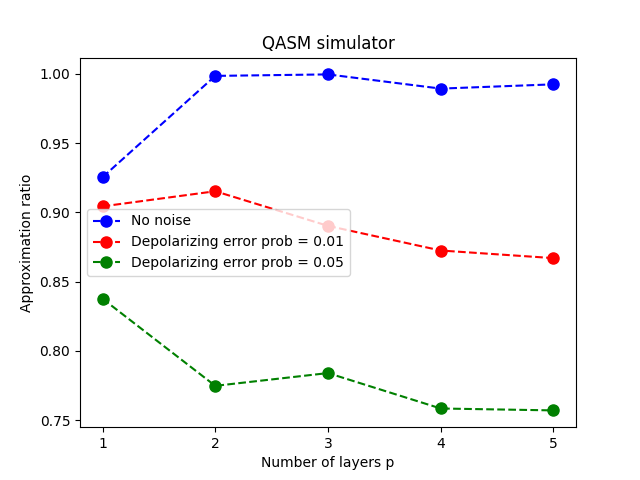
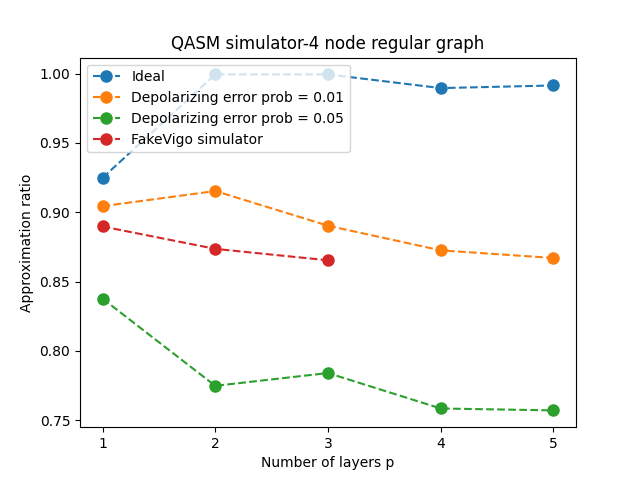
Started implementing layer by layer optimization.

diff --git a/plots.py b/plots.py
@@ -2,31 +2,35 @@ import matplotlib.pyplot as plt
 import numpy as np
 
 # QASM simulator with no noise // 4 node 3 regular graph:
-approx_ratio = [0.925425,0.99855,0.999625,0.989375,0.99245] # No noise
+approx_ratio = [0.924825, 0.9994, 0.999375, 0.989525, 0.991425] # No noise
+# [2.01177997 2.33217192 0.83523549 5.95600807 2.72784627] [1.65157151 6.27857961 1.05144207 3.10821409 1.4194117 ]
 approx_ratio_noisy2 = [0.904375, 0.9153, 0.8903, 0.872525, 0.867025] # Depolarizing error 0.01
 approx_ratio_noisy = [0.837725, 0.77485, 0.784075, 0.7585, 0.757125] # Depolarizing error 0.05
+approx_ratio_fakevigo = [0.889739990234375, 0.87359619140625, 0.8653564453125]
 
-plt.plot(range(1,len(approx_ratio)+1), approx_ratio, 'bo--', markersize=8, label='No noise')
-plt.plot(range(1,len(approx_ratio_noisy2)+1), approx_ratio_noisy2, 'ro--', markersize=8, label='Depolarizing error prob = 0.01')
-plt.plot(range(1,len(approx_ratio_noisy)+1), approx_ratio_noisy, 'go--', markersize=8, label='Depolarizing error prob = 0.05')
+plt.plot(range(1,len(approx_ratio)+1), approx_ratio, 'o--', markersize=8, label='Ideal')
+plt.plot(range(1,len(approx_ratio_noisy2)+1), approx_ratio_noisy2, 'o--', markersize=8, label='Depolarizing error prob = 0.01')
+plt.plot(range(1,len(approx_ratio_noisy)+1), approx_ratio_noisy, 'o--', markersize=8, label='Depolarizing error prob = 0.05')
+plt.plot(range(1,len(approx_ratio_fakevigo)+1), approx_ratio_fakevigo, 'o--', markersize=8, label='FakeVigo simulator')
 
 plt.xticks(range(1,len(approx_ratio)+1))
 plt.xlabel('Number of layers p')
 plt.ylabel('Approximation ratio')
 plt.legend()
-plt.title('QASM simulator-4 node regular graph')
-#plt.savefig('4 node regular graph with qasm')
-#plt.show()
+plt.title('4 node regular graph')
+plt.savefig('4 node regular graph with qasm')
+plt.show()
 
-# QASM simulator with no noise // 4 node 3 regular graph:
-approx_ratio = [0.7585714285714286, 0.7602714285714286, 0.7851, 0.7834714285714286, 0.7804142857142857] # No noise
+# QASM simulator with no noise // 6nprism:
+approx_ratio = [0.7581571428571429, 0.7612285714285714, 0.7824428571428571, 0.7796000000000001, 0.7810142857142858]
+# [5.84361619 3.19135334 3.7000231  0.01877684 1.6515655 ] [2.06240957 0.06109409 0.10826346 4.55452413 4.47434488]
 approx_ratio_noisy2 = [0.7438857142857144, 0.7251000000000001, 0.7312428571428571, 0.7198142857142857, 0.7168714285714285] # Depolarizing error 0.01
 approx_ratio_noisy = [0.6986857142857142, 0.6507857142857143, 0.6570428571428572, 0.6494714285714285, 0.6488571428571428] # Depolarizing error 0.05
 
 plt.close()
-plt.plot(range(1,len(approx_ratio)+1), approx_ratio, 'bo--', markersize=8, label='No noise')
-plt.plot(range(1,len(approx_ratio_noisy2)+1), approx_ratio_noisy2, 'ro--', markersize=8, label='Depolarizing error prob = 0.01')
-plt.plot(range(1,len(approx_ratio_noisy)+1), approx_ratio_noisy, 'go--', markersize=8, label='Depolarizing error prob = 0.05')
+plt.plot(range(1,len(approx_ratio)+1), approx_ratio, 'o--', markersize=8, label='Ideal')
+plt.plot(range(1,len(approx_ratio_noisy2)+1), approx_ratio_noisy2, 'o--', markersize=8, label='Depolarizing error prob = 0.01')
+plt.plot(range(1,len(approx_ratio_noisy)+1), approx_ratio_noisy, 'o--', markersize=8, label='Depolarizing error prob = 0.05')
 
 plt.xticks(range(1,len(approx_ratio)+1))
 plt.xlabel('Number of layers p')
@@ -34,4 +38,38 @@ plt.ylabel('Approximation ratio')
 plt.legend()
 plt.title('QASM simulator-6n prism graph')
 plt.savefig('6-n prism graph with qasm')
+plt.show()
+
+# QASM simulator with no noise // Erdos-Renyo graph:
+approx_ratio = [0.7455928571428572, 0.6670857142857143, 0.7555071428571428, 0.755742857142857, 0.7561285714285715] # No noise
+# [0.03821226 3.21017583 0.21517038 0.11873241 0.79274375] [2.89780661 3.14217104 4.21520146 0.11372762 2.89750008]
+approx_ratio_noisy2 = [0.7270357142857142, 0.6614428571428571, 0.7125785714285715, 0.6606928571428572, 0.6618857142857143] # Depolarizing error 0.01
+#[3.23163798 4.61422627 2.65065358 0.13752952 0.74402197] [0.93750292 3.05073663 5.16491242 0.75495762 4.70287073]
+approx_ratio_noisy = [0.6845214285714285, 0.6456428571428571, 0.6503642857142857, 0.6476357142857143, 0.64885] # Depolarizing error 0.05
+# [3.6446848  0.71288267 2.58491384 5.37518451 4.5581894 ] [4.6198482  5.05260994 4.50554244 3.30805374 2.19893019]
+plt.close()
+
+plt.plot(range(1,len(approx_ratio)+1), approx_ratio, 'o--', markersize=8, label='Ideal')
+plt.plot(range(1,len(approx_ratio_noisy2)+1), approx_ratio_noisy2, 'o--', markersize=8, label='Depolarizing error prob = 0.01')
+plt.plot(range(1,len(approx_ratio_noisy)+1), approx_ratio_noisy, 'o--', markersize=8, label='Depolarizing error prob = 0.05')
+
+plt.xticks(range(1,len(approx_ratio)+1))
+plt.xlabel('Number of layers p')
+plt.ylabel('Approximation ratio')
+plt.legend()
+plt.title('QASM simulator-Erdos Renyi graph')
+plt.savefig('Erdos graph with qasm')
+plt.show()
+
+
+# Number of calls to the circuit when running it in fakevigo 
+calls = [20,72,275,715]
+plt.close
+plt.plot(range(1,len(calls)+1), calls, 'o--', markersize=8)
+plt.xticks(range(1,len(approx_ratio)+1))
+plt.xlabel('Number of layers p')
+plt.ylabel('Calls')
+plt.legend()
+plt.title('Calls to the quantum circuit in FakeVigo')
+plt.savefig('Calls')
 plt.show()

diff --git a/layer_by_layer_qasm_functions.py b/layer_by_layer_qasm_functions.py
@@ -1,8 +1,10 @@
 from qiskit import execute, QuantumCircuit
 
-def circuit_ansatz(G, gamma, beta, p, prev_gamma, prev_beta): #gamma and beta are p-arrays or lists
+def circuit_ansatz(G, gamma, beta, prev_gamma, prev_beta, p): #gamma and beta are p-arrays or lists
     n = len(G.nodes())
     E = G.edges()
+    gamma = prev_gamma.append(gamma)
+    beta = prev_beta.append(beta)
 
     QAOA = QuantumCircuit(n, n)
     for i in range(p):
@@ -12,21 +14,21 @@ def circuit_ansatz(G, gamma, beta, p, prev_gamma, prev_beta): #gamma and beta ar
         for edge in E:
             k = edge[0]
             l = edge[1]
-            QAOA.cu1(-2*gamma[i], k, l) #Controlled-Z gate with a -2*gamma phase
-            QAOA.u1(gamma[i], k) #Rotation of gamma around the z axis
-            QAOA.u1(gamma[i], l) 
+            QAOA.cu1(-2*gamma[i], k, l) 
+            QAOA.u1(gamma[i], k) 
+            QAOA.u1(gamma[i], l)
 
         QAOA.barrier()
-        QAOA.rx(2*beta[i], range(n)) #X rotation
+        QAOA.rx(2*beta[i], range(n)) 
 
     QAOA.barrier()
     QAOA.measure(range(n),range(n)) 
 
     return QAOA
 
-def execute_circuit(G, gamma, beta, backend, shots, p, noise_model): #returns an instance of the Results class
+def execute_circuit(G, gamma, beta, prev_gamma, prev_beta, backend, shots, p, noise_model): #returns an instance of the Results class
 
-    QAOA = circuit_ansatz(G, gamma, beta, p=p) #creates the circuit
+    QAOA = circuit_ansatz(G, gamma, beta, prev_gamma=prev_gamma, prev_beta=prev_beta, p=p)
 
     if noise_model== None:
         job = execute(QAOA, backend=backend, shots=shots)
@@ -68,10 +70,10 @@ def get_solution(counts, G): #takes as the solution the state with the highest c
             solution_cost = cost_x
     return solution, solution_cost
 
-def expect_value_function(parameters, backend, G, shots, p ,noise_model):
-    gamma = parameters[:p]
-    beta = parameters[p:]
-    counts = execute_circuit(G, gamma, beta, backend, shots, p=p, noise_model = noise_model)
+def expect_value_function(parameters,prev_gamma,prev_beta, backend, G, shots, p, noise_model):
+    gamma = parameters[0]
+    beta = parameters[1]
+    counts = execute_circuit(G, gamma, beta, prev_gamma, prev_beta, backend, shots, p=p, noise_model = noise_model)
     avr_cost = get_expectval(counts, shots, G)
     return -avr_cost
 

diff --git a/layer_by_layer_qasm_simulation.py b/layer_by_layer_qasm_simulation.py
@@ -1,6 +1,6 @@
 # Private libraries
 import qaoa_graphs as graphs
-from qasm_functions import *
+from layer_by_layer_qasm_functions import *
 
 # General
 import networkx as nx
@@ -32,21 +32,21 @@ G = graphs.fournodes_3reg_graph()
 backend = QasmSimulator.from_backend(FakeVigo())
 shots = 8192
 
-number_of_calls = 0
-
 # Choose the number of rounds
 p = 1
 
 # In case we don't want a noise model:
 noise_model = None
 
+prev_gamma = []]
+prev_beta = []
 cost_list = []
 approx_ratio_list = []
 p_max = 5
 for p in range(1,p_max + 1):
 
     # Initial values
-    x0 = np.random.randn(2,p)
+    x0 = np.random.randn(2)
 
     # Parameters bounds (for SLQP and diff-evolution)
     bound = (0, 2*np.pi)
@@ -61,7 +61,7 @@ for p in range(1,p_max + 1):
     # max_expect_value = minimize(expect_value_function, x0=np.random.randn(2),args=(backend,G,shots,p,None), bounds = bounds, options={'disp': True}, method = 'SLQP')
 
     # Differential evolution optimizer:
-    max_expect_value = differential_evolution(expect_value_function,args=(backend,G,shots,p,noise_model), bounds=bounds, disp = True)
+    max_expect_value = differential_evolution(expect_value_function,args=(prev_gamma,prev_beta,backend,G,shots,p,noise_model), bounds=bounds, disp = True)
 
     optimal_gamma, optimal_beta = max_expect_value['x'][:p], max_expect_value['x'][p:]
     counts = execute_circuit(G, optimal_gamma, optimal_beta, backend, shots, p, noise_model)
@@ -71,6 +71,8 @@ for p in range(1,p_max + 1):
                                           # the solution (i.e. measures the state solution at least once). For enough shots (e.g. 10000) this is almost garanteed
     cost_list.append(avr_cost)
     approx_ratio_list.append(approx_ratio)
+    prev_gamma.append(optimal_gamma)
+    prev_beta.append(optimal_beta)
 
     print(f"Number of layers: {p}")
     print(f"Average cost list: {cost_list}")
@@ -83,7 +85,6 @@ for p in range(1,p_max + 1):
     #plot_histogram(counts,figsize = (8,6),bar_labels = False)
     #plt.show()
 
-    
 
 #np.save('saved_cost_list', cost_list)
 plt.plot(range(1,p_max), cost_list)

diff --git a/sandbox.py b/sandbox.py
@@ -1,5 +1,6 @@
 import qaoa_graphs as graphs
 from qasm_functions import *
+from qiskit.test.mock import FakeVigo
 
 # General
 import networkx as nx
@@ -9,7 +10,7 @@ import pylab as pl
 
 # Qiskit
 from qiskit.providers.aer import QasmSimulator
-from qiskit import QuantumCircuit, execute
+from qiskit import QuantumCircuit, execute, IBMQ
 from qiskit.tools.monitor import job_monitor
 from qiskit.visualization import plot_histogram
 
@@ -22,7 +23,7 @@ n = len(G.nodes())
 E = G.edges()
 
 
-
+'''
 # T1 and T2 values (from analysis)
 T1 = 45e-3
 T2 = 20e-3
@@ -33,7 +34,7 @@ T_2qubit_gates = 60e-3
 
 noise_model = NoiseModel()
 
-# 
+#
 error1 = depolarizing_error(1, 1) #single qubit gates
 error2 = depolarizing_error(0.02, 2) #two qubit gates
 #single_qubit_error = thermal_relaxation_error(T1, T2, T_1qubit_gates) #single qubit gates
@@ -46,12 +47,22 @@ noise_model.add_all_qubit_quantum_error(error1, ['u1', 'u2', 'u3'])
 noise_model.add_all_qubit_quantum_error(error2, ['cx'])
 
 basis_gates = noise_model.basis_gates
+'''
+#backend = FakeVigo()
+#vigo_simulator = QasmSimulator.from_backend(backend)
+provider = IBMQ.load_account()
+backend = provider.get_backend('ibmq_vigo')
+IBMQ.providers()    # List all available providers
 
-circ = QuantumCircuit(1,1)
-circ.x(0)
-circ.measure_all()
-job = execute(circ, backend=QasmSimulator(), shots=10000, basis_gates=basis_gates, noise_model=noise_model)
+circ = QuantumCircuit(3, 3)
+circ.h(0)
+circ.cx(0, 1)
+circ.cx(1, 2)
+circ.measure([0, 1, 2], [0, 1, 2])
+
+job = execute(circ, backend=backend, shots = 1000)
+job.status()
 results = job.result()
 counts = results.get_counts()
-#plot_histogram(counts)
+plot_histogram(counts)
 print(counts)

diff --git a/qaoa_graphs.py b/qaoa_graphs.py
@@ -55,11 +55,20 @@ def sixn_prism():
     G.add_weighted_edges_from(E)
     return G
 
+def erdos_renyi(): #Returns a Gn,p random graph, also known as an Erdős-Rényi graph or a binomial graph.
+
+    n = 9 # number of nodes
+    p = 0.5 # probability of creating an edge
+    G = nx.fast_gnp_random_graph(n, p, seed=1)
+    for e in G.edges():
+        G[e[0]][e[1]] ['weight'] = 1.0
+    return G
+
 if __name__ == "__main__":
     #Generate plot of the Graph
     import matplotlib.pyplot as plt
     G = fournodes_3reg_graph()
     colors = ['g' for node in G.nodes()]
     nx.draw_networkx(G, node_color=colors)
-    plt.savefig('4noderegular_graph')
+    #plt.savefig('4 node regular graph')
     plt.show()
